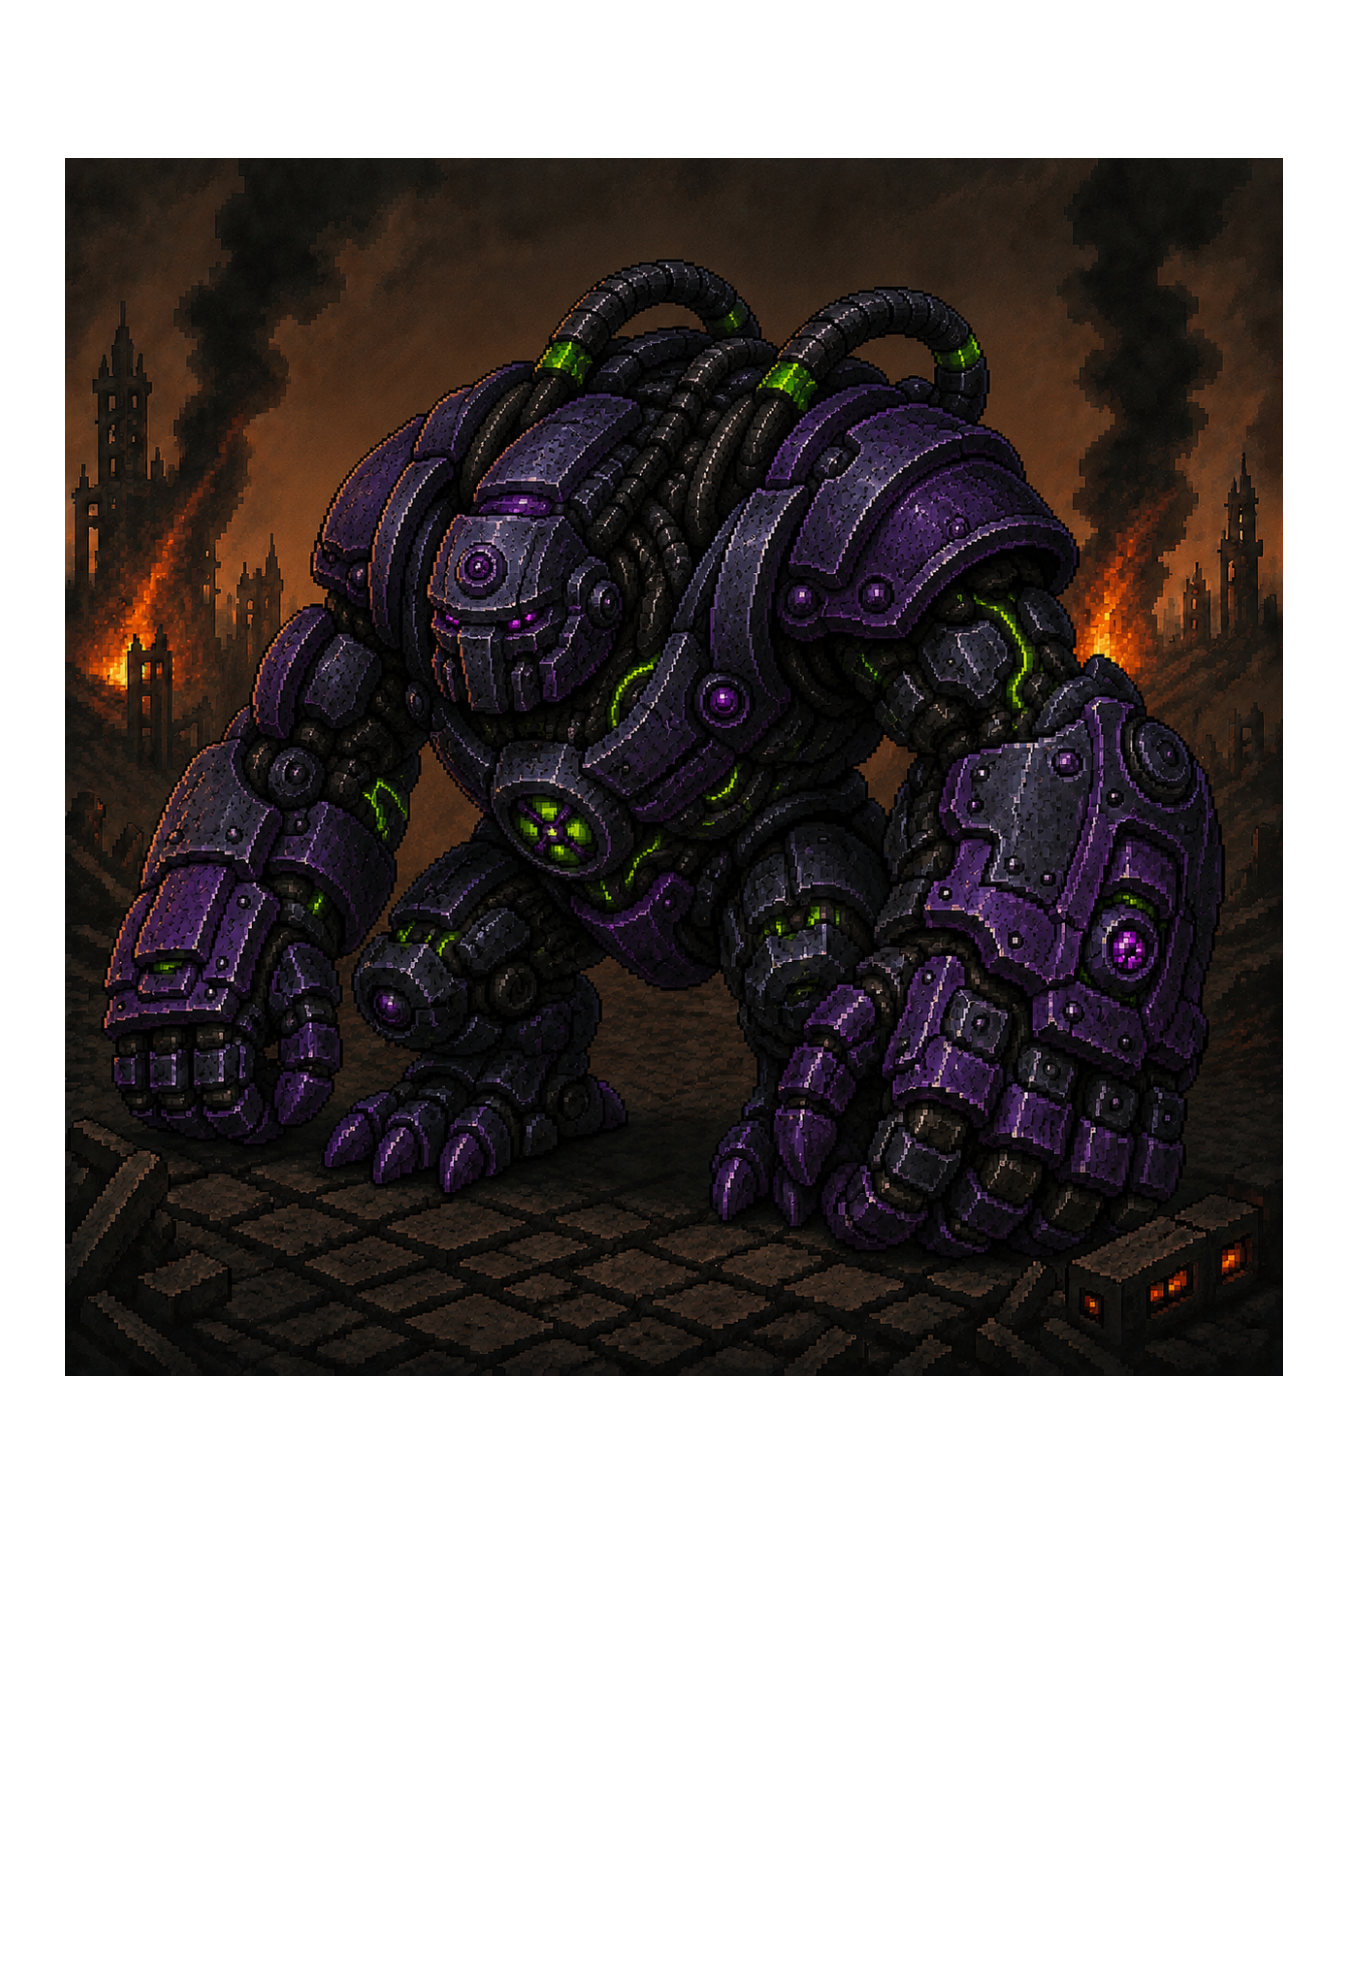
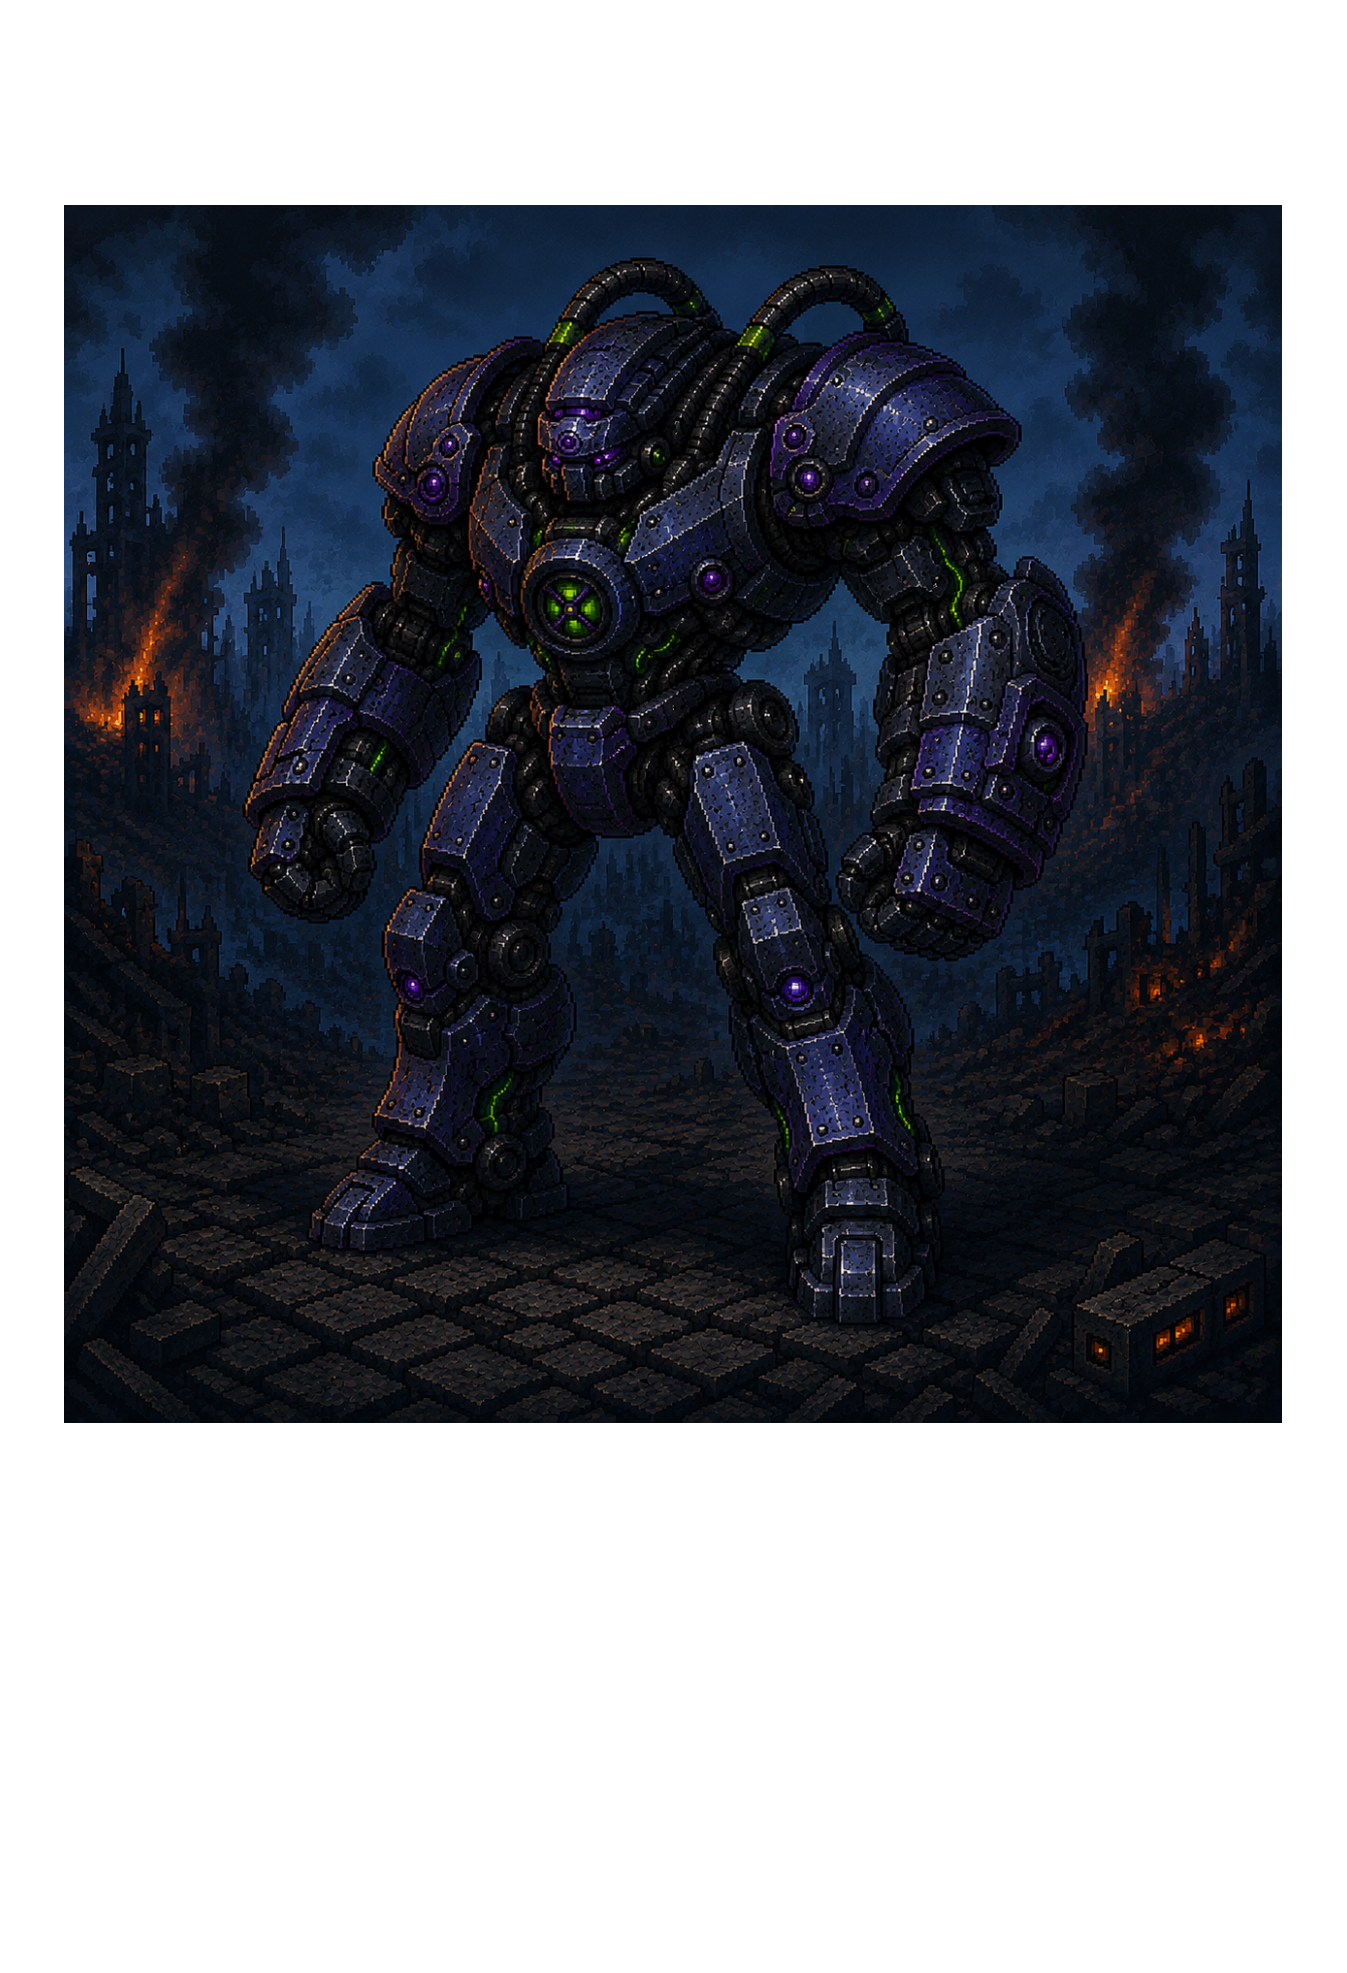
Frame redondeado + iconos en slots vacios + info.png background + estilos player-info
Cartas con esquinas redondeadas:
- styles.css: border-radius: 0.5cqi en .unit-frame-card, .skill-frame-card,
  .card-back (en slot), .slot-icon y .slot. Overflow hidden hace de mascara.

Slots vacios con iconos:
- ui.js renderSlot: muestra images/attack.png o defense.png en FL/RG vacios
  (en lugar del label de texto).
- ui.js renderSkillSlot: muestra images/skill.png cuando el slot Skill esta vacio.
- styles.css .slot-icon: max-width/max-height 100%, opacity 0.85.
- Slots sin border (eran 2px dashed); highlight states con border explicito.

Player-info card con imagen de background:
- styles.css .player-info: background images/info.png con cover + fallback gradient.
- container-type: inline-size para que cqi funcione dentro.
- Sin border, border-radius: 0.5cqi.
- Padding: 8px 15px 10px (mas espacio lateral, texto un poco abajo).
- font-family: Times New Roman, font-weight: bolder, color #321200 en todos los stats.
- .player-name con font Asimovian, color #c2b9aa, sombra proyectada.
- Removido override .player.local-seat .player-name que daba gold-bright.

Fuentes:
- index.html: cargado Google Fonts Asimovian.
- .frame-name (unit/skill names) usa Asimovian.

Otros:
- Nuevas imagenes: attack.png, defense.png, skill.png, info.png en images/.
- ASSET_VERSION = 28.

diff --git a/styles.css b/styles.css
@@ -130,19 +130,26 @@ body {
   display: flex;
   flex-direction: column;
   gap: 6px;
-  background: linear-gradient(180deg, #1a2238 0%, #0a0e1a 100%);
-  border: 2px solid var(--unit-frame);
-  border-radius: 6px;
-  padding: 10px 8px;
+  background: url('images/info.png?v=27') center/cover no-repeat,
+              linear-gradient(180deg, #1a2238 0%, #0a0e1a 100%);
+  border: none;
+  border-radius: 0.5cqi;
+  padding: 8px 15px 10px;
   overflow: hidden;
+  container-type: inline-size;
+  font-family: 'Times New Roman', 'Georgia', serif;
+  font-weight: bolder;
 }
 .player-name {
+  font-family: 'Asimovian', 'Times New Roman', serif;
   font-weight: bold;
-  color: var(--gold);
-  font-size: 14px;
+  color: #c2b9aa;
+  font-size: 16px;
   text-align: center;
-  padding-bottom: 6px;
-  border-bottom: 1px solid var(--bg-panel);
+  letter-spacing: 0.04em;
+  padding-bottom: 2px;
+  text-shadow: 2px 2px 4px rgba(0, 0, 0, 0.9),
+               0 0 3px rgba(0, 0, 0, 0.8);
 }
 .player-stat {
   display: flex;
@@ -150,10 +157,10 @@ body {
   align-items: center;
   font-size: 12px;
 }
-.stat-label { color: var(--text-dim); }
-.stat-value { color: var(--text-light); font-weight: bold; }
-.stat-value.player-life { color: var(--red); }
-.stat-value.enemy-life { color: var(--amber); }
+.stat-label { color: #321200; }
+.stat-value { color: #321200; font-weight: bold; }
+.stat-value.player-life { color: #321200; }
+.stat-value.enemy-life { color: #321200; }
 
 /* ─── Slots grid 2x2 ─── */
 .slots-grid {
@@ -202,13 +209,15 @@ body {
   width: 144px;
   height: 202px;
   background: rgba(0, 0, 0, 0.3);
-  border: 2px dashed var(--bg-panel);
-  border-radius: 6px;
+  border: none;
+  border-radius: 0.5cqi;
   display: flex;
   align-items: center;
   justify-content: center;
   cursor: default;
   transition: all 0.2s;
+  container-type: inline-size;
+  overflow: hidden;
 }
 .slot.empty .slot-label {
   color: var(--text-dim);
@@ -216,16 +225,22 @@ body {
   font-weight: bold;
   letter-spacing: 0.1em;
 }
+.slot-icon {
+  max-width: 100%;
+  max-height: 100%;
+  object-fit: contain;
+  opacity: 0.85;
+  pointer-events: none;
+  border-radius: 0.5cqi;
+}
 .slot.highlight {
-  border-color: var(--gold);
-  border-style: solid;
+  border: 2px solid var(--gold);
   box-shadow: 0 0 12px rgba(251, 191, 36, 0.5);
   cursor: pointer;
   background: rgba(251, 191, 36, 0.1);
 }
 .slot.highlight-replace {
-  border-color: var(--amber);
-  border-style: dashed;
+  border: 2px dashed var(--amber);
   box-shadow: 0 0 10px rgba(251, 191, 36, 0.4);
   cursor: pointer;
 }
@@ -250,10 +265,10 @@ body {
   gap: 6px;
 }
 .display-row { display: flex; gap: 8px; align-items: center; font-size: 11px; }
-.display-label { color: var(--text-dim); }
-.display-value { color: var(--gold); font-weight: bold; }
-.display-active { color: var(--green); font-weight: bold; font-size: 12px; }
-.display-pending { color: var(--purple); font-size: 10px; text-align: center; }
+.display-label { color: #321200; }
+.display-value { color: #321200; font-weight: bold; }
+.display-active { color: #321200; font-weight: bold; font-size: 12px; }
+.display-pending { color: #321200; font-size: 10px; text-align: center; }
 
 /* ─── Cartas de UNIDAD con frame.png overlay ───
    Layout: imagen unidad como fondo + frame PNG encima + texto absoluto.
@@ -271,7 +286,7 @@ body {
   display: block;
   container-type: inline-size;
   flex-shrink: 0;
-  border-radius: 0;
+  border-radius: 0.5cqi;
 }
 
 .unit-bg-img {
@@ -317,6 +332,7 @@ body {
   font-size: 9.5cqi;
   letter-spacing: 0.04em;
   text-align: center;
+  font-family: 'Asimovian', 'Times New Roman', serif;
 }
 
 .frame-fp {
@@ -720,11 +736,16 @@ body {
 .card.card-back {
   background: var(--bg-deep);
   border: none;
-  border-radius: 6px;
+  border-radius: 0.5cqi;
   position: relative;
   overflow: hidden;
   display: block;
   padding: 0;
+}
+/* Cuando un dorso está dentro de un slot (no en la mano), ocupa todo el slot. */
+.slot .card.card-back {
+  width: 100%;
+  height: 100%;
 }
 .card-back-img {
   width: 100%;
@@ -744,5 +765,4 @@ body {
   font-weight: bold;
 }
 
-/* ─── Resaltado del asiento local ─── */
-.player.local-seat .player-name { color: var(--gold-bright); }
+/* ─── Resaltado del asiento local (sin tocar el color del nombre) ─── */

diff --git a/ui.js b/ui.js
@@ -22,7 +22,7 @@ import {
 
 // Cache-busting: bump esta cadena cuando se actualicen imágenes para
 // forzar al navegador a redescargarlas en vez de servirlas de caché.
-const ASSET_VERSION = '23';
+const ASSET_VERSION = '28';
 
 // ──────────────────────────────────────────────────────────────────
 // Estado global del UI
@@ -321,7 +321,13 @@ function renderSlot(playerId, slotName, card) {
       slotEl.appendChild(renderCardEl(card));
     }
   } else {
-    slotEl.appendChild(el('div', 'slot-label', slotName === 'frontLine' ? 'FRONT LINE' : 'REAR GUARD'));
+    // Slot vacío: muestra el icono de attack (Front Line) o defense (Rear Guard).
+    const iconSrc = slotName === 'frontLine' ? 'images/attack.png' : 'images/defense.png';
+    const iconEl = document.createElement('img');
+    iconEl.src = `${iconSrc}?v=${ASSET_VERSION}`;
+    iconEl.alt = slotName === 'frontLine' ? 'Front Line' : 'Rear Guard';
+    iconEl.className = 'slot-icon';
+    slotEl.appendChild(iconEl);
   }
 
   if (selectedCardInstanceId && selectedPlayerId && !isAnimating && localSeat === selectedPlayerId) {
@@ -355,7 +361,11 @@ function renderSkillSlot(playerId, skillState) {
     slotEl.classList.add(`skill-${skillState.state}`);
   } else {
     slotEl.classList.add('empty');
-    slotEl.appendChild(el('div', 'slot-label', 'SKILL'));
+    const iconEl = document.createElement('img');
+    iconEl.src = `images/skill.png?v=${ASSET_VERSION}`;
+    iconEl.alt = 'Skill';
+    iconEl.className = 'slot-icon';
+    slotEl.appendChild(iconEl);
   }
 
   if (selectedCardInstanceId && selectedPlayerId === playerId && !isAnimating && localSeat === selectedPlayerId) {

diff --git a/index.html b/index.html
@@ -7,6 +7,9 @@
   <meta http-equiv="Pragma" content="no-cache" />
   <meta http-equiv="Expires" content="0" />
   <title>Olympus Protocol — Simulator</title>
+  <link rel="preconnect" href="https://fonts.googleapis.com" />
+  <link rel="preconnect" href="https://fonts.gstatic.com" crossorigin />
+  <link href="https://fonts.googleapis.com/css2?family=Asimovian&display=swap" rel="stylesheet" />
   <link rel="stylesheet" href="styles.css" />
 </head>
 <body>